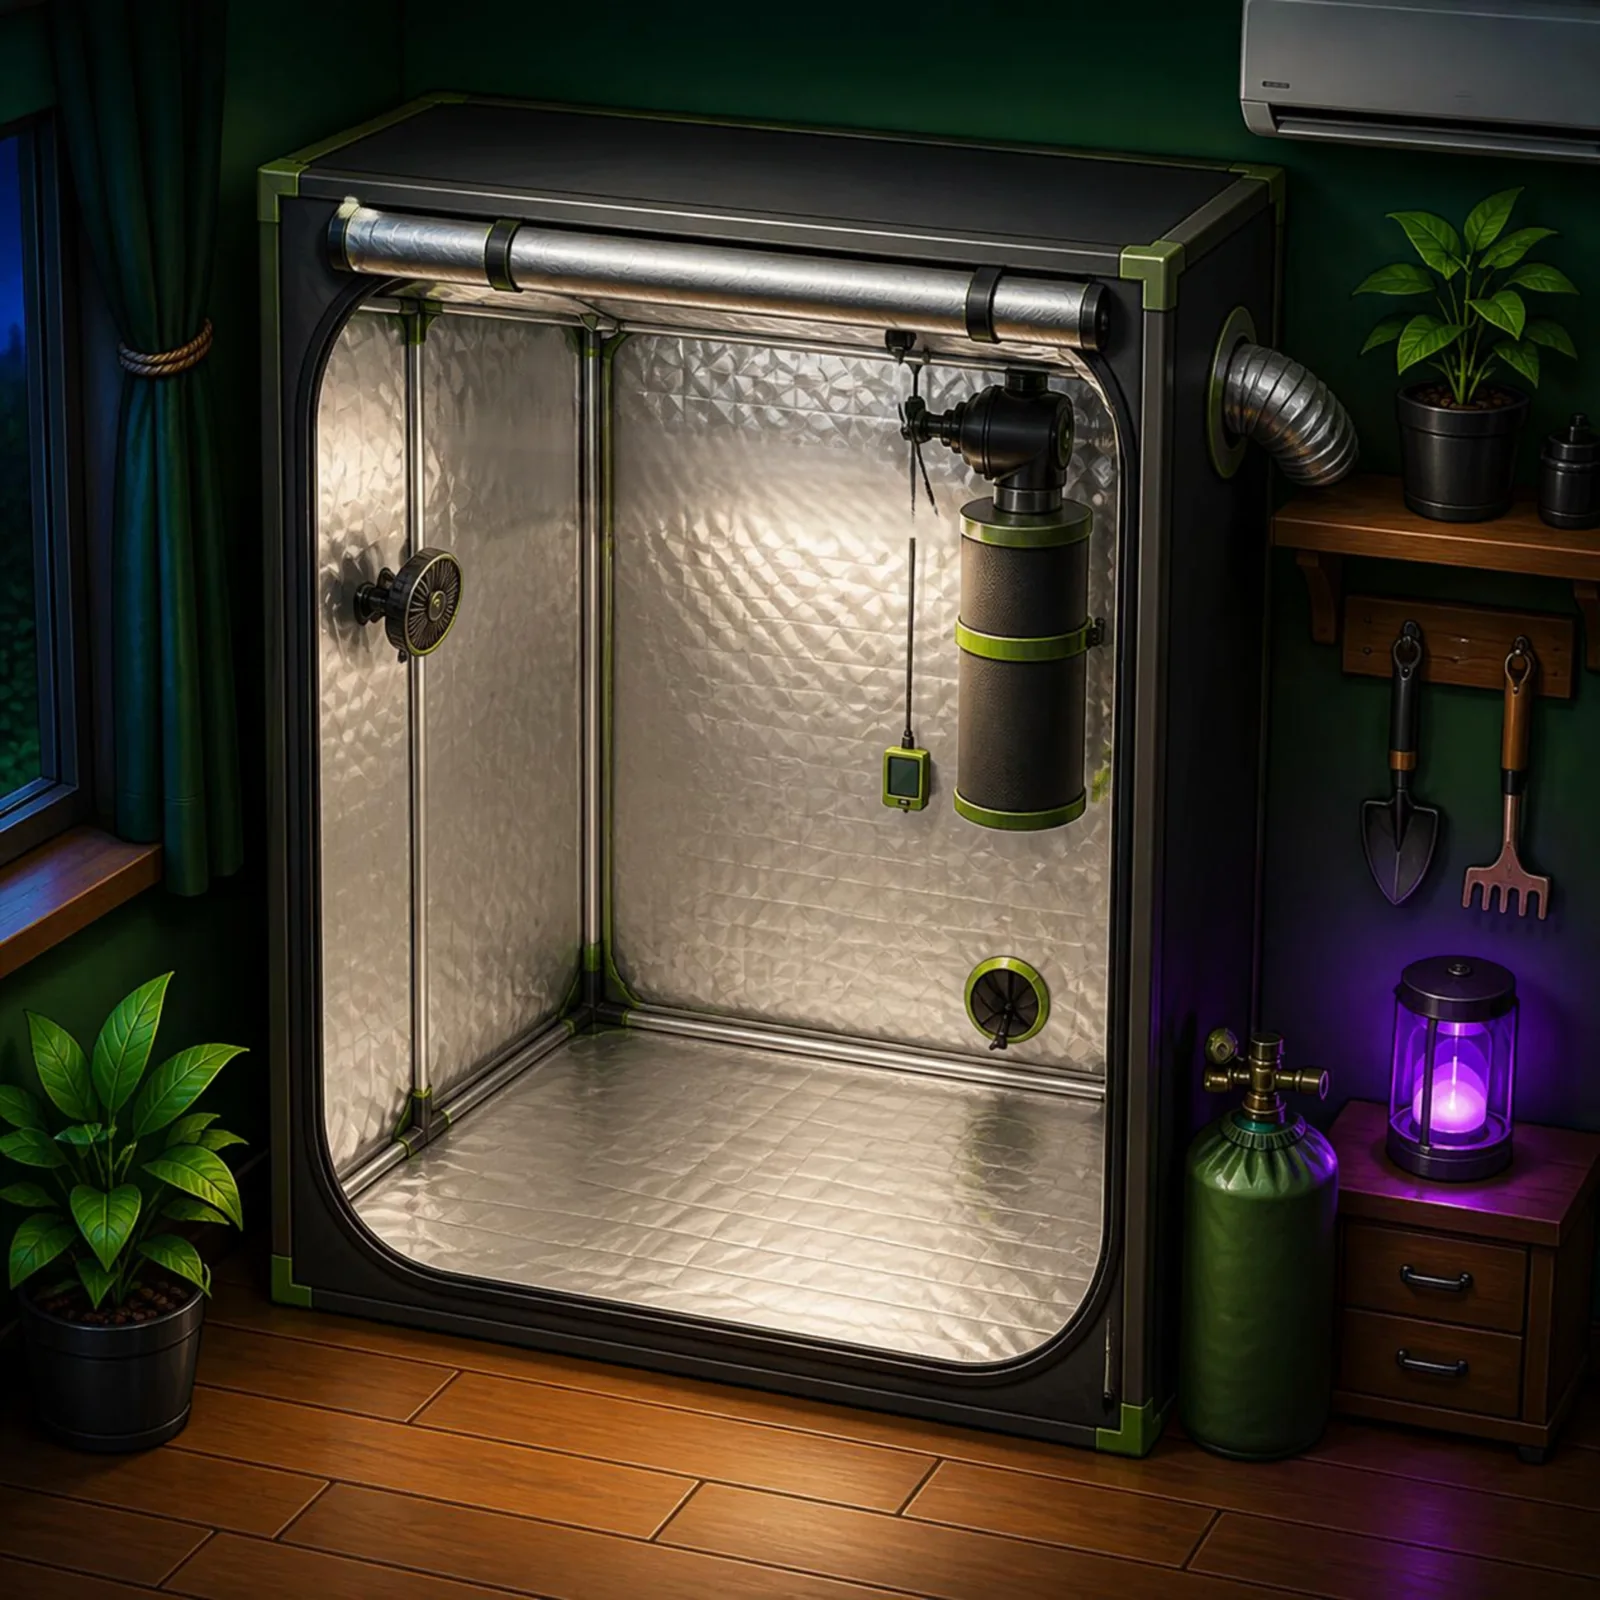
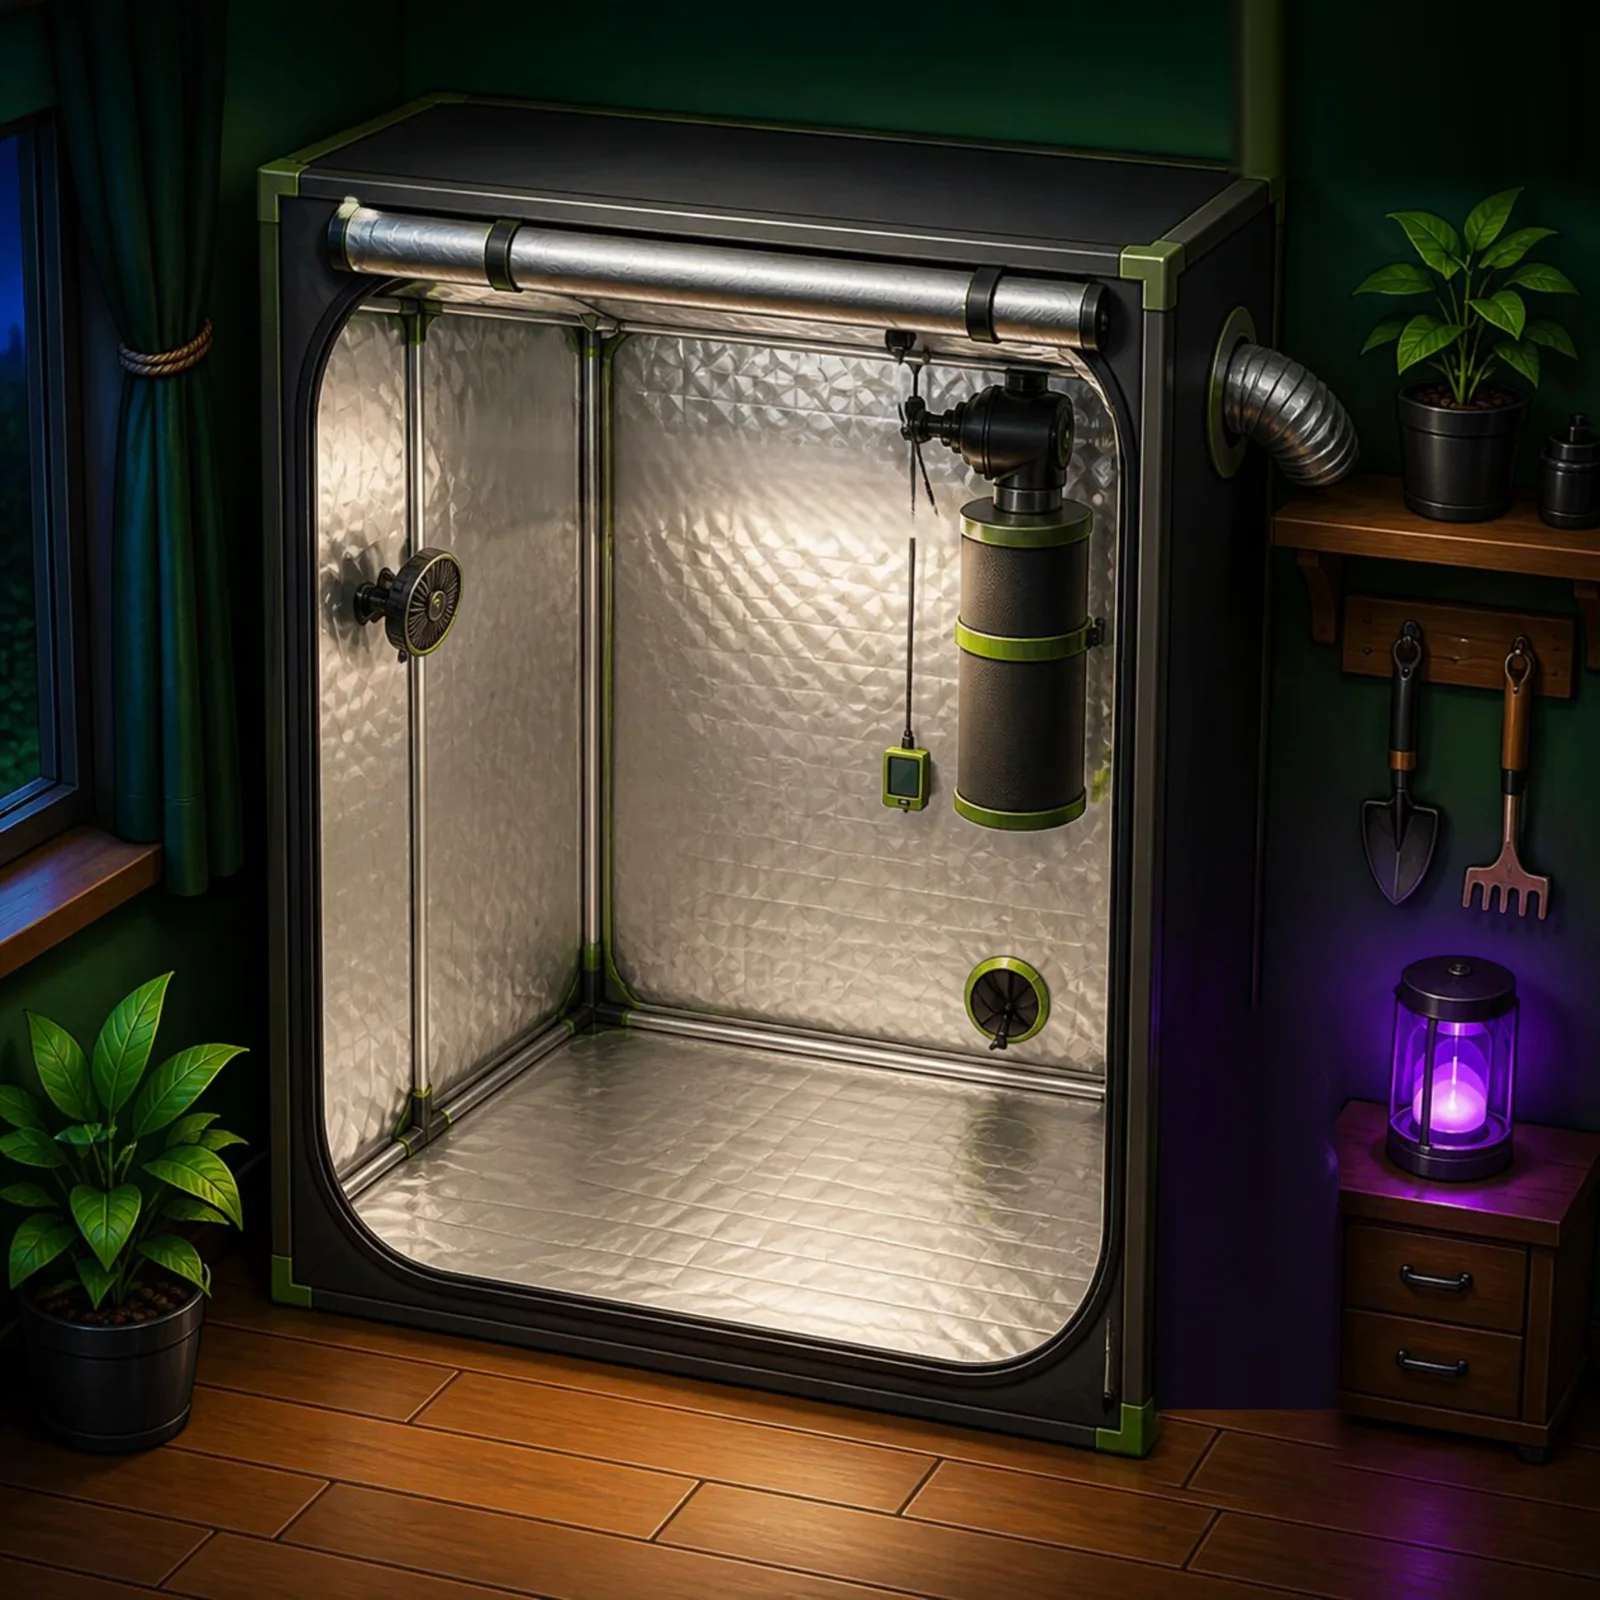
Salas: luz de la hora real sobre el cielo pintado (invernadero, campus, sede); carpa sin mini-split ni CO2 pintados

Changed region(s): [[0.7188, 0.625, 0.8438, 0.9375], [0.75, 0.0, 1.0, 0.125]]

diff --git a/src/components/hud/FacilityBackdrop.tsx b/src/components/hud/FacilityBackdrop.tsx
@@ -143,15 +143,25 @@ const Hydro: React.FC<Props> = ({ lampColor, equip }) => (
 
 /** rooms with painted art (the plant is removed from the picture: the game draws its own plant on top); the rest are drawn above */
 /** `mobile`: framing for narrow screens (size + position), when the default one would put the pot somewhere odd */
-const PAINTED: Record<string, { src: string; pos: string; mobile?: { size: string; pos: string } }> = {
+/** `sky`: the painting shows the open sky, so it takes the real hour's light (dawn, day, dusk, night) */
+const PAINTED: Record<string, { src: string; pos: string; mobile?: { size: string; pos: string }; sky?: boolean }> = {
   tent_starter: { src: '/rooms/tent_starter.webp', pos: '50% 74%' },   // the cupboard floor lines up with the pot's base (the stage's bottom 28 %)
   tent_pro: { src: '/rooms/tent_pro.webp', pos: '38% 72%' },   // the tent's floor sits a bit left of centre
-  greenhouse_commercial: { src: '/rooms/greenhouse_commercial.webp', pos: '38% 40%' },   // cut-away diorama: the pot stands mid-floor
+  greenhouse_commercial: { src: '/rooms/greenhouse_commercial.webp', pos: '38% 40%', sky: true },   // cut-away diorama: the pot stands mid-floor
   lab_pharma_hydro: { src: '/rooms/lab_pharma_hydro.webp', pos: '45% 45%' },
   hydro_complex: { src: '/rooms/hydro_complex.webp', pos: '50% 45%' },   // two rooms and the control lab: the pot stands in the middle
-  grow_campus: { src: '/rooms/grow_campus.webp', pos: '50% 40%', mobile: { size: 'auto 135%', pos: '50% 26%' } },   // the pot stands in the central courtyard
-  empire_seat: { src: '/rooms/empire_seat.webp', pos: '50% 45%' },   // the pot stands in the central aisle, the emblem behind it
+  grow_campus: { src: '/rooms/grow_campus.webp', pos: '50% 40%', mobile: { size: 'auto 135%', pos: '50% 26%' }, sky: true },   // the pot stands in the central courtyard
+  empire_seat: { src: '/rooms/empire_seat.webp', pos: '50% 45%', sky: true },   // the pot stands in the central aisle, the emblem behind it
 };
+
+/** the hour's light over a painting with sky: a colour laid on top with `multiply` (night blue, warm dawn/dusk, nothing by day) */
+function skyLight(hour: number): { color: string; opacity: number } | null {
+  const h = ((hour % 24) + 24) % 24;
+  if (h >= 8 && h < 16.5) return null;                                                    // day: the painting as it is
+  if (h >= 6 && h < 8) return { color: '#ff9a62', opacity: 0.55 * (1 - (h - 6) / 2) + 0.12 };    // dawn fading out
+  if (h >= 16.5 && h < 19) return { color: '#ff8a4c', opacity: 0.2 + 0.35 * ((h - 16.5) / 2.5) }; // dusk coming in
+  return { color: '#1b2a6b', opacity: h >= 19 && h < 20 ? 0.45 + 0.3 * (h - 19) : 0.75 };        // night
+}
 
 export const FacilityBackdrop: React.FC<Props> = (p) => {
   const base = artBase(p.facilityId);
@@ -165,6 +175,9 @@ export const FacilityBackdrop: React.FC<Props> = (p) => {
     <div className="fb-root" aria-hidden data-facility={p.facilityId}>
       {painted
         ? <div className="fb-painted" style={{ backgroundImage: `url(${painted.src})`, ['--fb-pos' as string]: painted.pos, ...(painted.mobile ? { ['--fb-pos-m' as string]: painted.mobile.pos, ['--fb-size-m' as string]: painted.mobile.size } : {}), ...(tint ? { filter: tint, animation: 'none' } : {}) }} />
+        : null}
+      {painted?.sky && (() => { const l = skyLight(p.hour); return l ? <div className="fb-sky" style={{ background: l.color, opacity: l.opacity }} /> : null; })()}
+      {painted ? null
         : <svg viewBox="0 0 1000 600" preserveAspectRatio="xMidYMid slice" style={{ filter: artFilter(p.facilityId) }}><T {...p} /></svg>}
       {/* the lamp's light cone over the room */}
       <div className="absolute inset-0" style={{ background: `radial-gradient(ellipse ${tight ? 46 : 70}% 62% at 50% 8%, rgba(${p.lampColor},${0.26 * p.lightPct}) 0%, rgba(${p.lampColor},${0.08 * p.lightPct}) 45%, transparent 78%)` }} />

diff --git a/src/dev/NpcLab.tsx b/src/dev/NpcLab.tsx
@@ -72,11 +72,12 @@ export const FounderLab: React.FC = () => (
 /** Dev only (`/#roomlab`): a facility backdrop at the cultivation stage's size, with a plant where the game puts it */
 export const RoomLab: React.FC = () => {
   const id = new URLSearchParams(window.location.search).get('room') ?? 'tent_starter';
+  const hour = Number(new URLSearchParams(window.location.search).get('hour') ?? 13);
   const equip = { lampWatts: 600, lampMaxPpfd: 480, acKw: 0, pumpKw: 0, autoWater: false, waterPerPlantAuto: 0, solarKw: 0, co2Ppm: 0, hasAc: false };
   return (
     <div className="min-h-screen p-4" style={{ background: '#0a0716' }}>
       <div className="relative isolate overflow-hidden rounded-3xl border border-emerald-400/20 bg-[#02080a] h-[680px] max-w-[1100px] mx-auto">
-        <FacilityBackdrop facilityId={id} lampColor="255,236,190" lightPct={0.8} equip={equip} hour={13} />
+        <FacilityBackdrop facilityId={id} lampColor="255,236,190" lightPct={0.8} equip={equip} hour={hour} />
         <div className="absolute inset-x-0 top-[5%] bottom-[28%] flex items-end justify-center">
           <div className="relative h-full w-full max-w-[760px]">
             <CannabisPlant className="h-full w-full drop-shadow-[0_18px_28px_rgba(0,0,0,0.85)]" seedKey="lab" stage="vegetative" progress={38} health={92} soilMoisture={70} vpdOptimal strainColor="#15803d" amberPct={0} />

diff --git a/src/components/hud/hud.css b/src/components/hud/hud.css
@@ -78,6 +78,8 @@
 .fb-root svg { position: absolute; inset: 0; width: 100%; height: 100%; }
 /* painted room: fills the stage like the drawn ones (cover), with a slow breathing light from the lamp */
 .fb-painted { position: absolute; inset: 0; background-size: cover; background-position: var(--fb-pos, 50% 50%); background-repeat: no-repeat; animation: fbPaintedGlow 7s ease-in-out infinite alternate; }
+/* the real hour over a painted sky (night, dawn, dusk), see skyLight() */
+.fb-sky { position: absolute; inset: 0; mix-blend-mode: multiply; transition: opacity 2s, background 2s; pointer-events: none; }
 @media (max-width: 640px) { .fb-painted { background-size: var(--fb-size-m, cover); background-position: var(--fb-pos-m, var(--fb-pos, 50% 50%)); } }
 @keyframes fbPaintedGlow { from { filter: brightness(0.96); } to { filter: brightness(1.04); } }
 .fb-fan { transform-box: fill-box; transform-origin: center; animation: fbSpin 0.5s linear infinite; }
